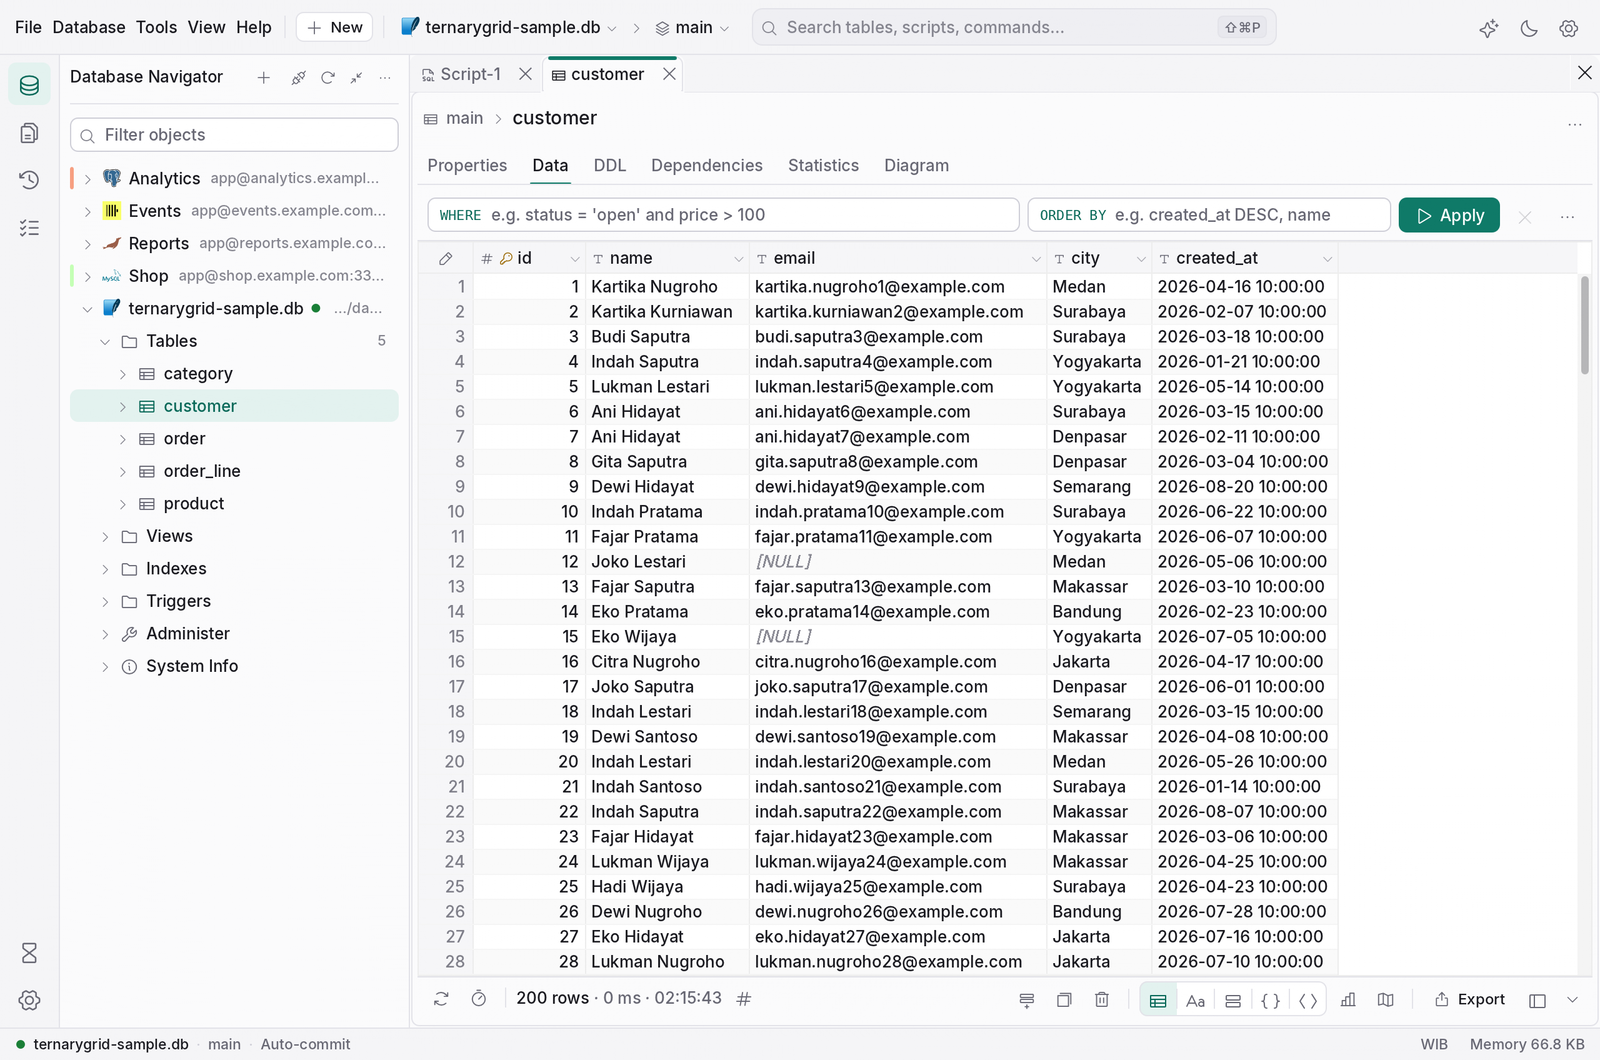
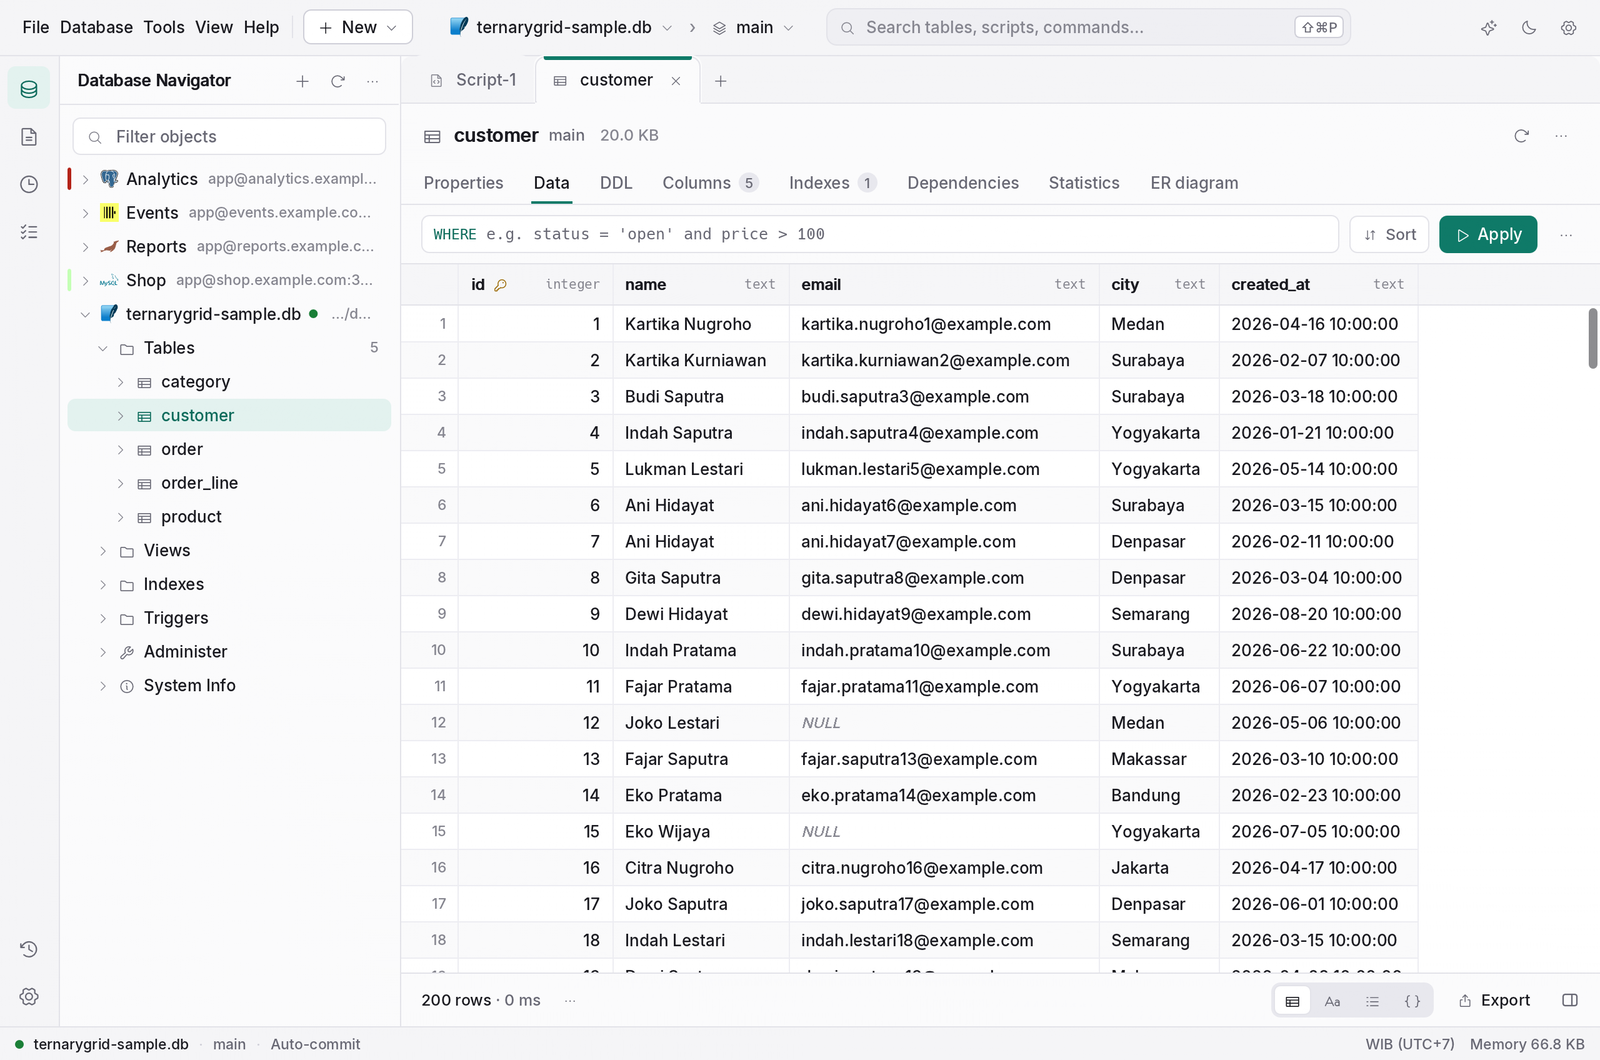
README: screenshots of the matched design, current binary size

diff --git a/README.md b/README.md
@@ -79,7 +79,7 @@ curl -fsSL https://raw.githubusercontent.com/ilhamnadhif/ternarygrid/master/scri
 
 The script downloads the latest release, checks it (the SHA-256 GitHub publishes, the code
 signature, the bundle id and version), installs `TernaryGrid.app` into `/Applications`, and opens it. Run
-it again to update. To install a specific version, pass it as an argument: `… | bash -s -- v0.5.2`.
+it again to update. To install a specific version, pass it as an argument: `… | bash -s -- v0.6.0`.
 
 **Disk image**: download **`TernaryGrid-<version>.dmg`**, open it and drag **TernaryGrid** onto **Applications**.
 
@@ -211,7 +211,7 @@ Measured on the release build (Apple M1 Pro) with `ternarygrid --bench all`:
 
 | | Target | Measured |
 | --- | --- | --- |
-| Binary size (macOS) | < 50 MB | 49.8 MB |
+| Binary size (macOS) | < 50 MB | 49.6 MB |
 | Cold start to first frame | < 1 s | ≈ 0.12 s |
 | Idle memory | < 120 MB | ≈ 88 MB |
 | 3 connections + 5 result tabs | < 250 MB | ≈ 94 MB |

diff --git a/README.id.md b/README.id.md
@@ -79,7 +79,7 @@ curl -fsSL https://raw.githubusercontent.com/ilhamnadhif/ternarygrid/master/scri
 
 Script ini mengunduh rilis terbaru, memeriksanya (SHA-256 yang diterbitkan GitHub, tanda tangan kode,
 bundle id dan versi), memasang `TernaryGrid.app` ke `/Applications`, lalu membukanya. Jalankan lagi untuk
-memperbarui. Untuk memasang versi tertentu, berikan versinya: `… | bash -s -- v0.5.2`.
+memperbarui. Untuk memasang versi tertentu, berikan versinya: `… | bash -s -- v0.6.0`.
 
 **Disk image**: unduh **`TernaryGrid-<versi>.dmg`**, buka, lalu seret **TernaryGrid** ke **Applications**.
 
@@ -216,7 +216,7 @@ Diukur pada build rilis (Apple M1 Pro) dengan `ternarygrid --bench all`:
 
 | | Target | Hasil |
 | --- | --- | --- |
-| Ukuran biner (macOS) | < 50 MB | 49,8 MB |
+| Ukuran biner (macOS) | < 50 MB | 49,6 MB |
 | Waktu buka sampai frame pertama | < 1 dtk | ≈ 0,12 dtk |
 | Memori saat diam | < 120 MB | ≈ 88 MB |
 | 3 koneksi + 5 tab hasil | < 250 MB | ≈ 94 MB |
